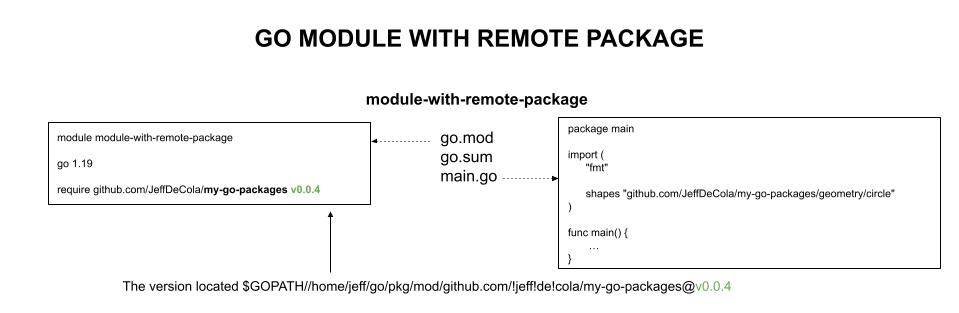
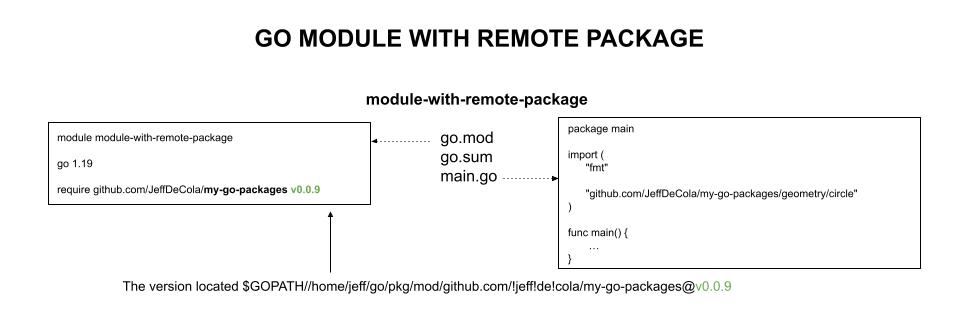
updated shapes-package

Changed region(s): [[0.6048, 0.6038, 0.9374, 0.6326], [0.756, 0.8914, 0.7862, 0.9201]]

diff --git a/functions-methods-interfaces/interfaces/shapes-package/main.go b/functions-methods-interfaces/interfaces/shapes-package/main.go
@@ -1,0 +1,32 @@
+package main
+
+import (
+	"fmt"
+
+	"github.com/JeffDeCola/my-go-packages/geometry/shapes"
+)
+
+func main() {
+
+	// Create a Rectangle and Circle type
+	r := shapes.Rectangle{Width: 10, Height: 10}
+	c := shapes.Circle{Radius: 5}
+
+	// Get the area (using the interface)
+	//a := shapes.GetArea(r)
+	a := r.Area()
+	fmt.Println("Area of rectangle =", a)
+	a = shapes.GetArea(c)
+	fmt.Println("Area of circle =", a)
+
+	// Change the size (x2)
+	shapes.ChangeSize(&r, 2)
+	shapes.ChangeSize(&c, 2)
+
+	// Get the area (using the interface)
+	a = shapes.GetArea(r)
+	fmt.Println("Area of rectangle =", a)
+	a = shapes.GetArea(c)
+	fmt.Println("Area of circle =", a)
+
+}

diff --git a/modules-and-packages/module-with-remote-package/main.go b/modules-and-packages/module-with-remote-package/main.go
@@ -3,17 +3,20 @@ package main
 import (
 	"fmt"
 
-	shapes "github.com/JeffDeCola/my-go-packages/geometry/circle"
+	"github.com/JeffDeCola/my-go-packages/geometry/circle"
 )
 
 func main() {
 
-	c := shapes.Circle{R: 5}
+	// Create a Circle type
+	c := circle.Circle{Radius: 5}
 
-	area := c.CircleArea()
-	fmt.Println(area)
+	// Get the area
+	a := c.Area()
+	fmt.Println("Area =", a)
 
-	circumference := c.CircleCircumference()
-	fmt.Println(circumference)
+	// Get the circumference
+	p := c.Circumference()
+	fmt.Println("Circumference =", p)
 
 }

diff --git a/functions-methods-interfaces/interfaces/geometry-package/geometry-package.go b/functions-methods-interfaces/interfaces/geometry-package/geometry-package.go
@@ -2,8 +2,6 @@ package main
 
 import (
 	"fmt"
-
-	geometry "github.com/JeffDeCola/my-go-packages/geometry/shapes"
 )
 
 func main() {

diff --git a/functions-methods-interfaces/interfaces/shapes-package/README.md b/functions-methods-interfaces/interfaces/shapes-package/README.md
@@ -1,8 +1,6 @@
-# geometry-package
+# shapes-package
 
- _Using an interface to calculate the area and perimeter of a rectangle,
-circle and triangle via a geometry package.
-It uses pointers for arguments and receivers._
+_Using an interface to calculate and manipulate simple 2D and 3D geometric shapes._
 
 Other examples using,
 
@@ -24,7 +22,7 @@ tl;dr,
 
 ```go
 // SYNTAX
-    // (receiver) func (arguments) (return arguments)
+    // (receiver type) func (parameters) (return types)
 
 // FUNCTIONS
 
@@ -42,7 +40,7 @@ tl;dr,
         func (r Rectangle) area() float64 {
         rec := Rectangle{2.4, 34.4}
         recArea := rec.area()
-    // USING POINTERS IN ARGUMENTS
+    // USING POINTERS IN PARAMETERS
         func (r Rectangle) area(a *float64) {
         rec := Rectangle{2.4, 34.4}
         var recArea float64
@@ -77,12 +75,7 @@ tl;dr,
 
 Table of Contents,
 
-* [OVERVIEW](https://github.com/JeffDeCola/my-go-examples/tree/master/functions-methods-interfaces/interfaces/geometry-package#overview)
-* [RUN](https://github.com/JeffDeCola/my-go-examples/tree/master/functions-methods-interfaces/interfaces/geometry-package#run)
-* [TEST](https://github.com/JeffDeCola/my-go-examples/tree/master/functions-methods-interfaces/interfaces/geometry-package#test)
-* [AN ILLUSTRATION THAT MAY HELP](https://github.com/JeffDeCola/my-go-examples/tree/master/functions-methods-interfaces/interfaces/geometry-package#an-illustration-that-may-help)
-
-Documentation and reference,
+* tbd
 
 Documentation and reference,
 
@@ -92,11 +85,8 @@ Documentation and reference,
 
 ## OVERVIEW
 
-The power of interfaces really shine when you have a package.
-Because you can have one interface that does a lot of things
-like a geometry shapes package.
-
-My shapes package has some function that using an interface,
+The use of interfaces is to create a common type that can be used by
+multiple types.
 
 ```go
 func GetArea(t TwoDCalculations) float64
@@ -109,7 +99,7 @@ func ChangeSize(t ShapeManipulations, f float64)
 ## EXAMPLE
 
 ```go
-??????????????????????????
+tbd
 ```
 
 ## RUN

diff --git a/modules-and-packages/module-with-remote-package/README.md b/modules-and-packages/module-with-remote-package/README.md
@@ -13,6 +13,7 @@ Table of Contents,
 * [OVERVIEW](https://github.com/JeffDeCola/my-go-examples/tree/master/modules-and-packages/module-with-remote-package#overview)
 * [STRUCTURE](https://github.com/JeffDeCola/my-go-examples/tree/master/modules-and-packages/module-with-remote-package#structure)
 * [CREATE A MODULE (go.mod)](https://github.com/JeffDeCola/my-go-examples/tree/master/modules-and-packages/module-with-remote-package#create-a-module-gomod)
+* [EXAMPLE](https://github.com/JeffDeCola/my-go-examples/tree/master/modules-and-packages/module-with-remote-package#example)
 * [RUN](https://github.com/JeffDeCola/my-go-examples/tree/master/modules-and-packages/module-with-remote-package#run)
 * [TEST](https://github.com/JeffDeCola/my-go-examples/tree/master/modules-and-packages/module-with-remote-package#test)
 * [VS CODE AND GO MULTI-MODULES (go.work)](https://github.com/JeffDeCola/my-go-examples/tree/master/modules-and-packages/module-with-remote-package#vs-code-and-go-multi-modules-gowork)
@@ -32,7 +33,7 @@ of related go source files in the same directory.
 
 ## STRUCTURE
 
-Let's use a package I made to calculate the area and perimeter of a circle.
+Let's use a package I made to calculate the area and circumference of a circle.
 
 ![IMAGE - go-module-with-remote-package - IMAGE](../../docs/pics/modules-and-packages/go-module-with-remote-package.jpg)
 
@@ -49,13 +50,40 @@ module module-with-remote-package
 
 go 1.19
 
-require github.com/JeffDeCola/my-go-packages v0.0.0.5
+require github.com/JeffDeCola/my-go-packages v0.0.0.9
 ```
 
 Run `go mod tidy` to clean up the go.mod file,
 
 ```cmd
 go mod tidy
+```
+
+## EXAMPLE
+
+```go
+package main
+
+import (
+    "fmt"
+
+    "github.com/JeffDeCola/my-go-packages/geometry/circle"
+)
+
+func main() {
+
+    // Create a Circle type
+    c := circle.Circle{Radius: 5}
+
+    // Get the area
+    a := c.Area()
+    fmt.Println("Area =", a)    
+
+    // Get the circumference
+    p := c.Circumference()
+    fmt.Println("Circumference =", p)
+
+}
 ```
 
 ## RUN

diff --git a/README.md b/README.md
@@ -204,6 +204,10 @@ simple area and perimeter calculations for different shapes._
     circle and triangle via a geometry package.
     It uses pointers for arguments and receivers._
 
+  * [shapes-package](https://github.com/JeffDeCola/my-go-examples/tree/master/functions-methods-interfaces/interfaces/shapes-package)
+
+    _Using an interface to calculate and manipulate simple 2D and 3D geometric shapes._
+
 ### GOROUTINES
 
 _Go is written for **concurrency**. The go runtime schedules goroutines on threads.
